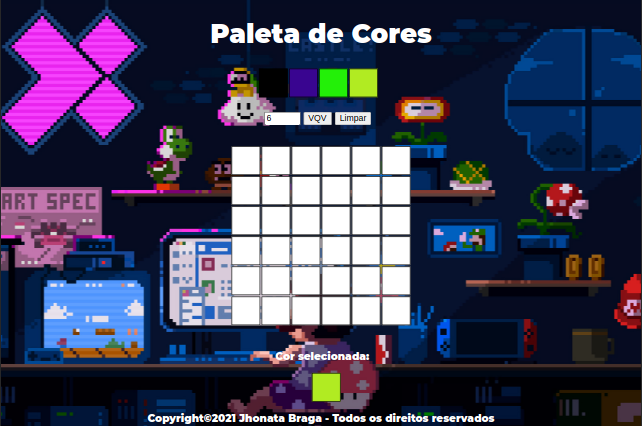
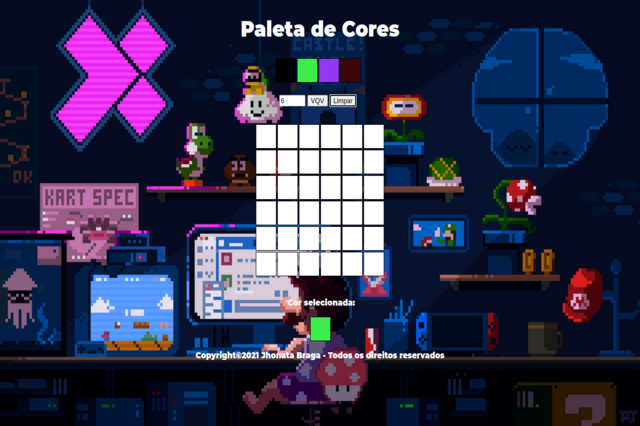
fix img project pixel art and readme

diff --git a/README.md b/README.md
@@ -1,0 +1,1 @@
+# Jhonata portfolio
